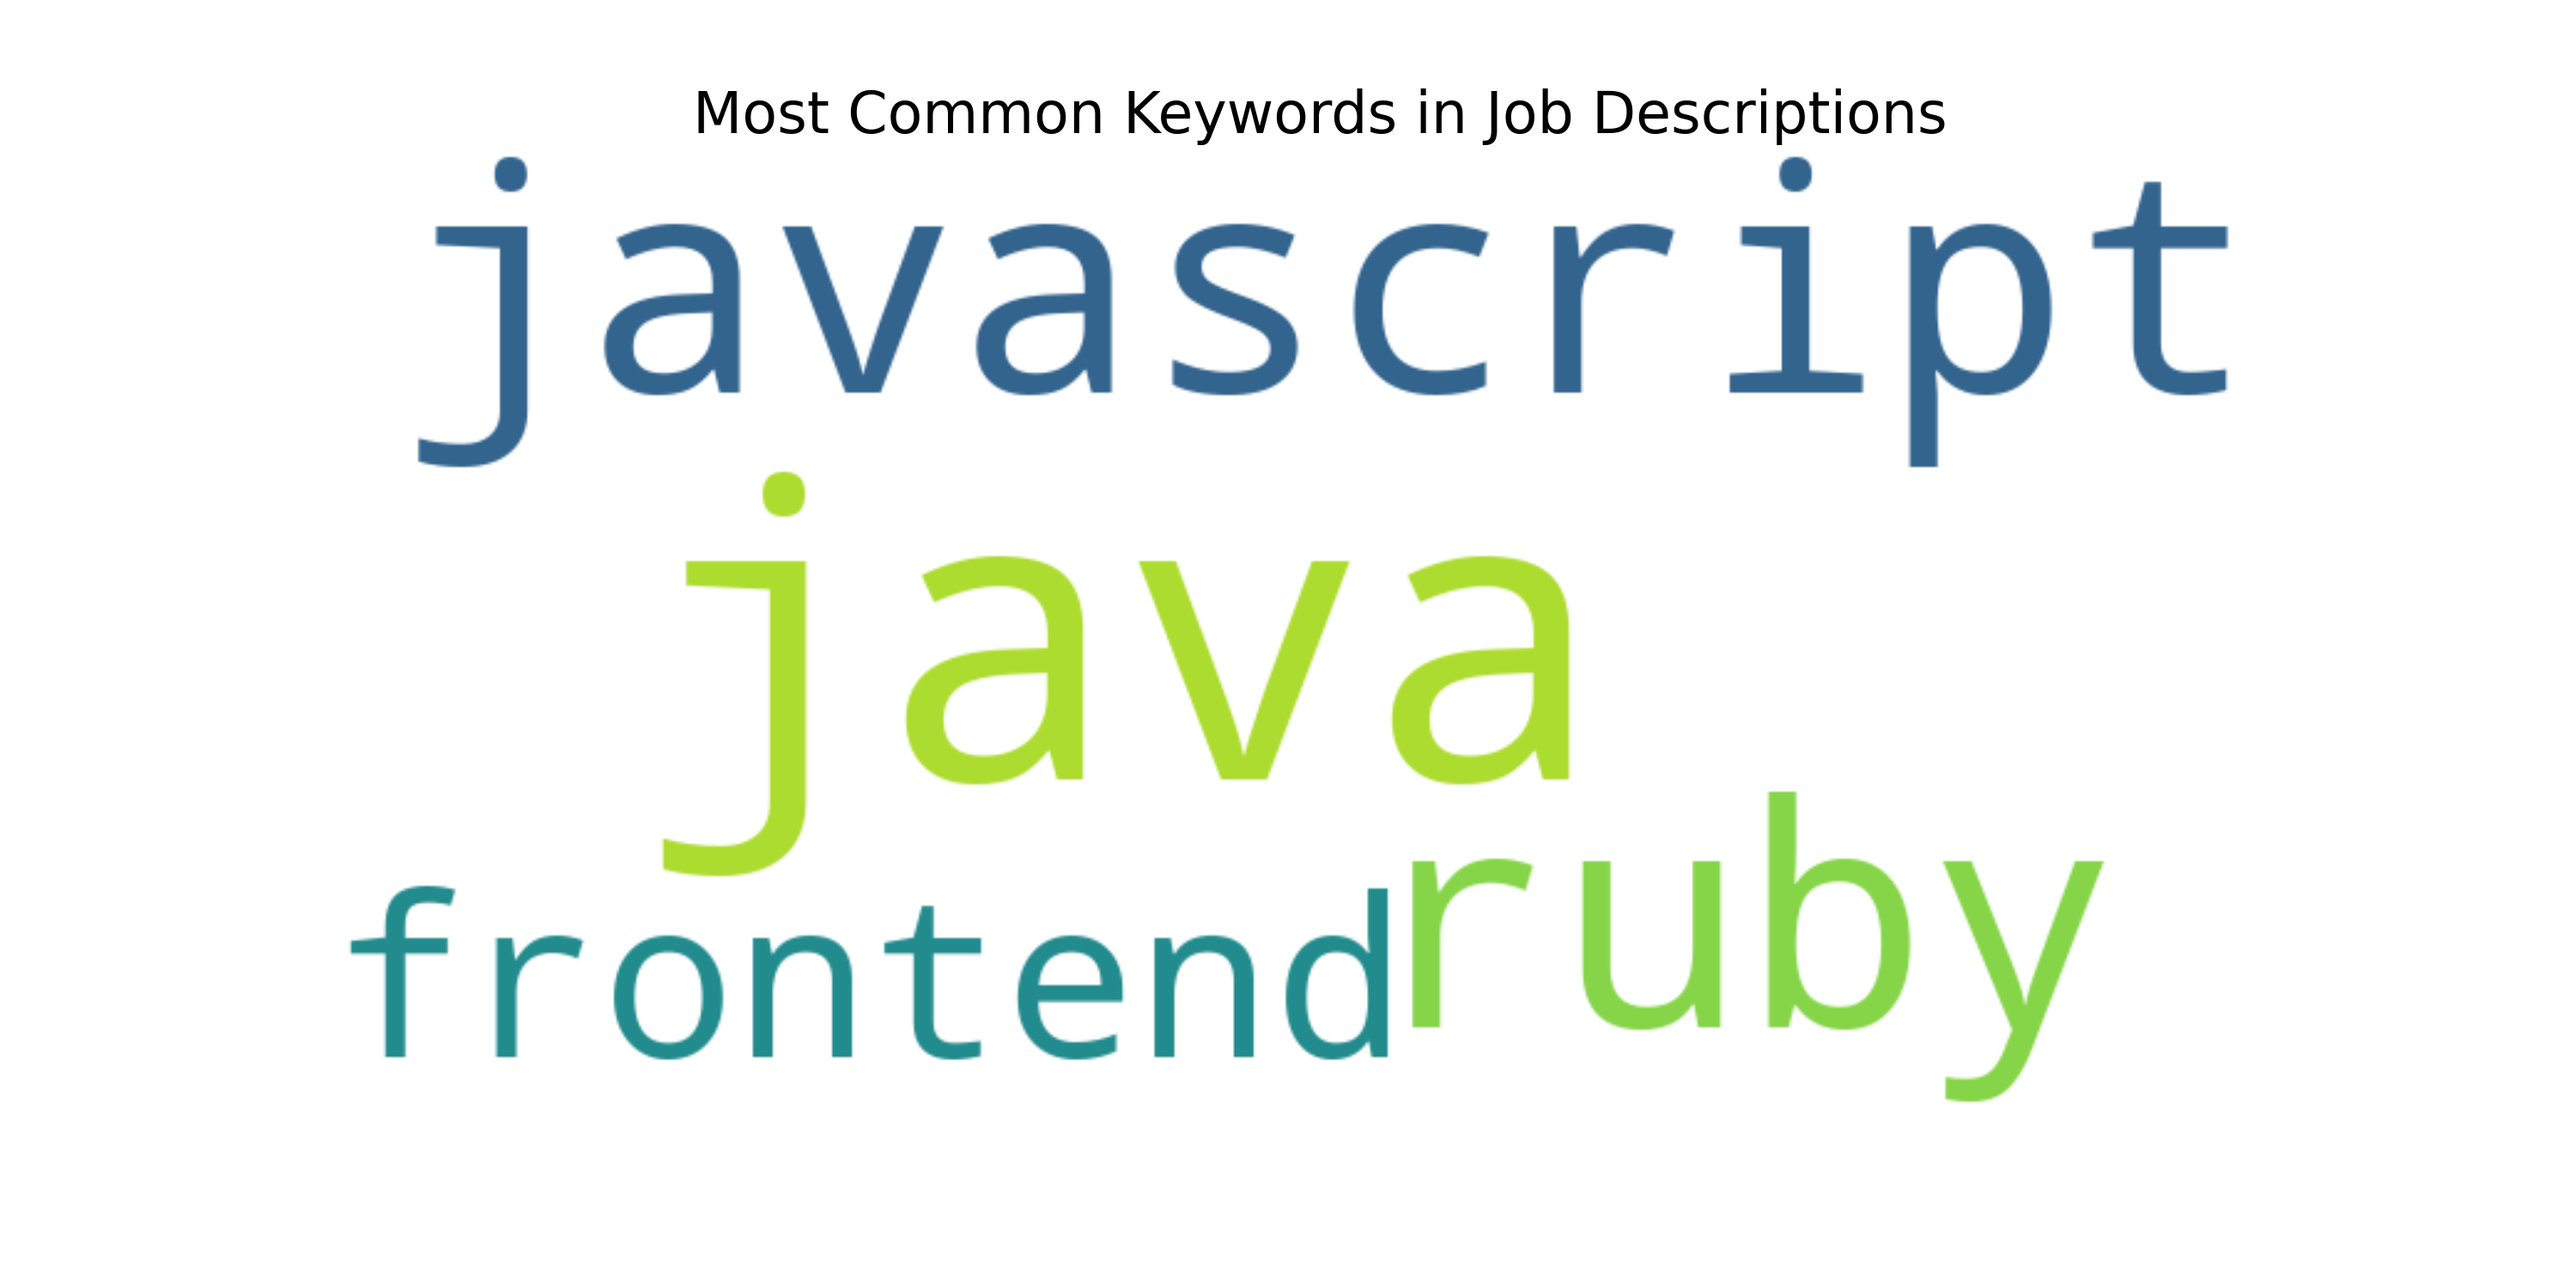
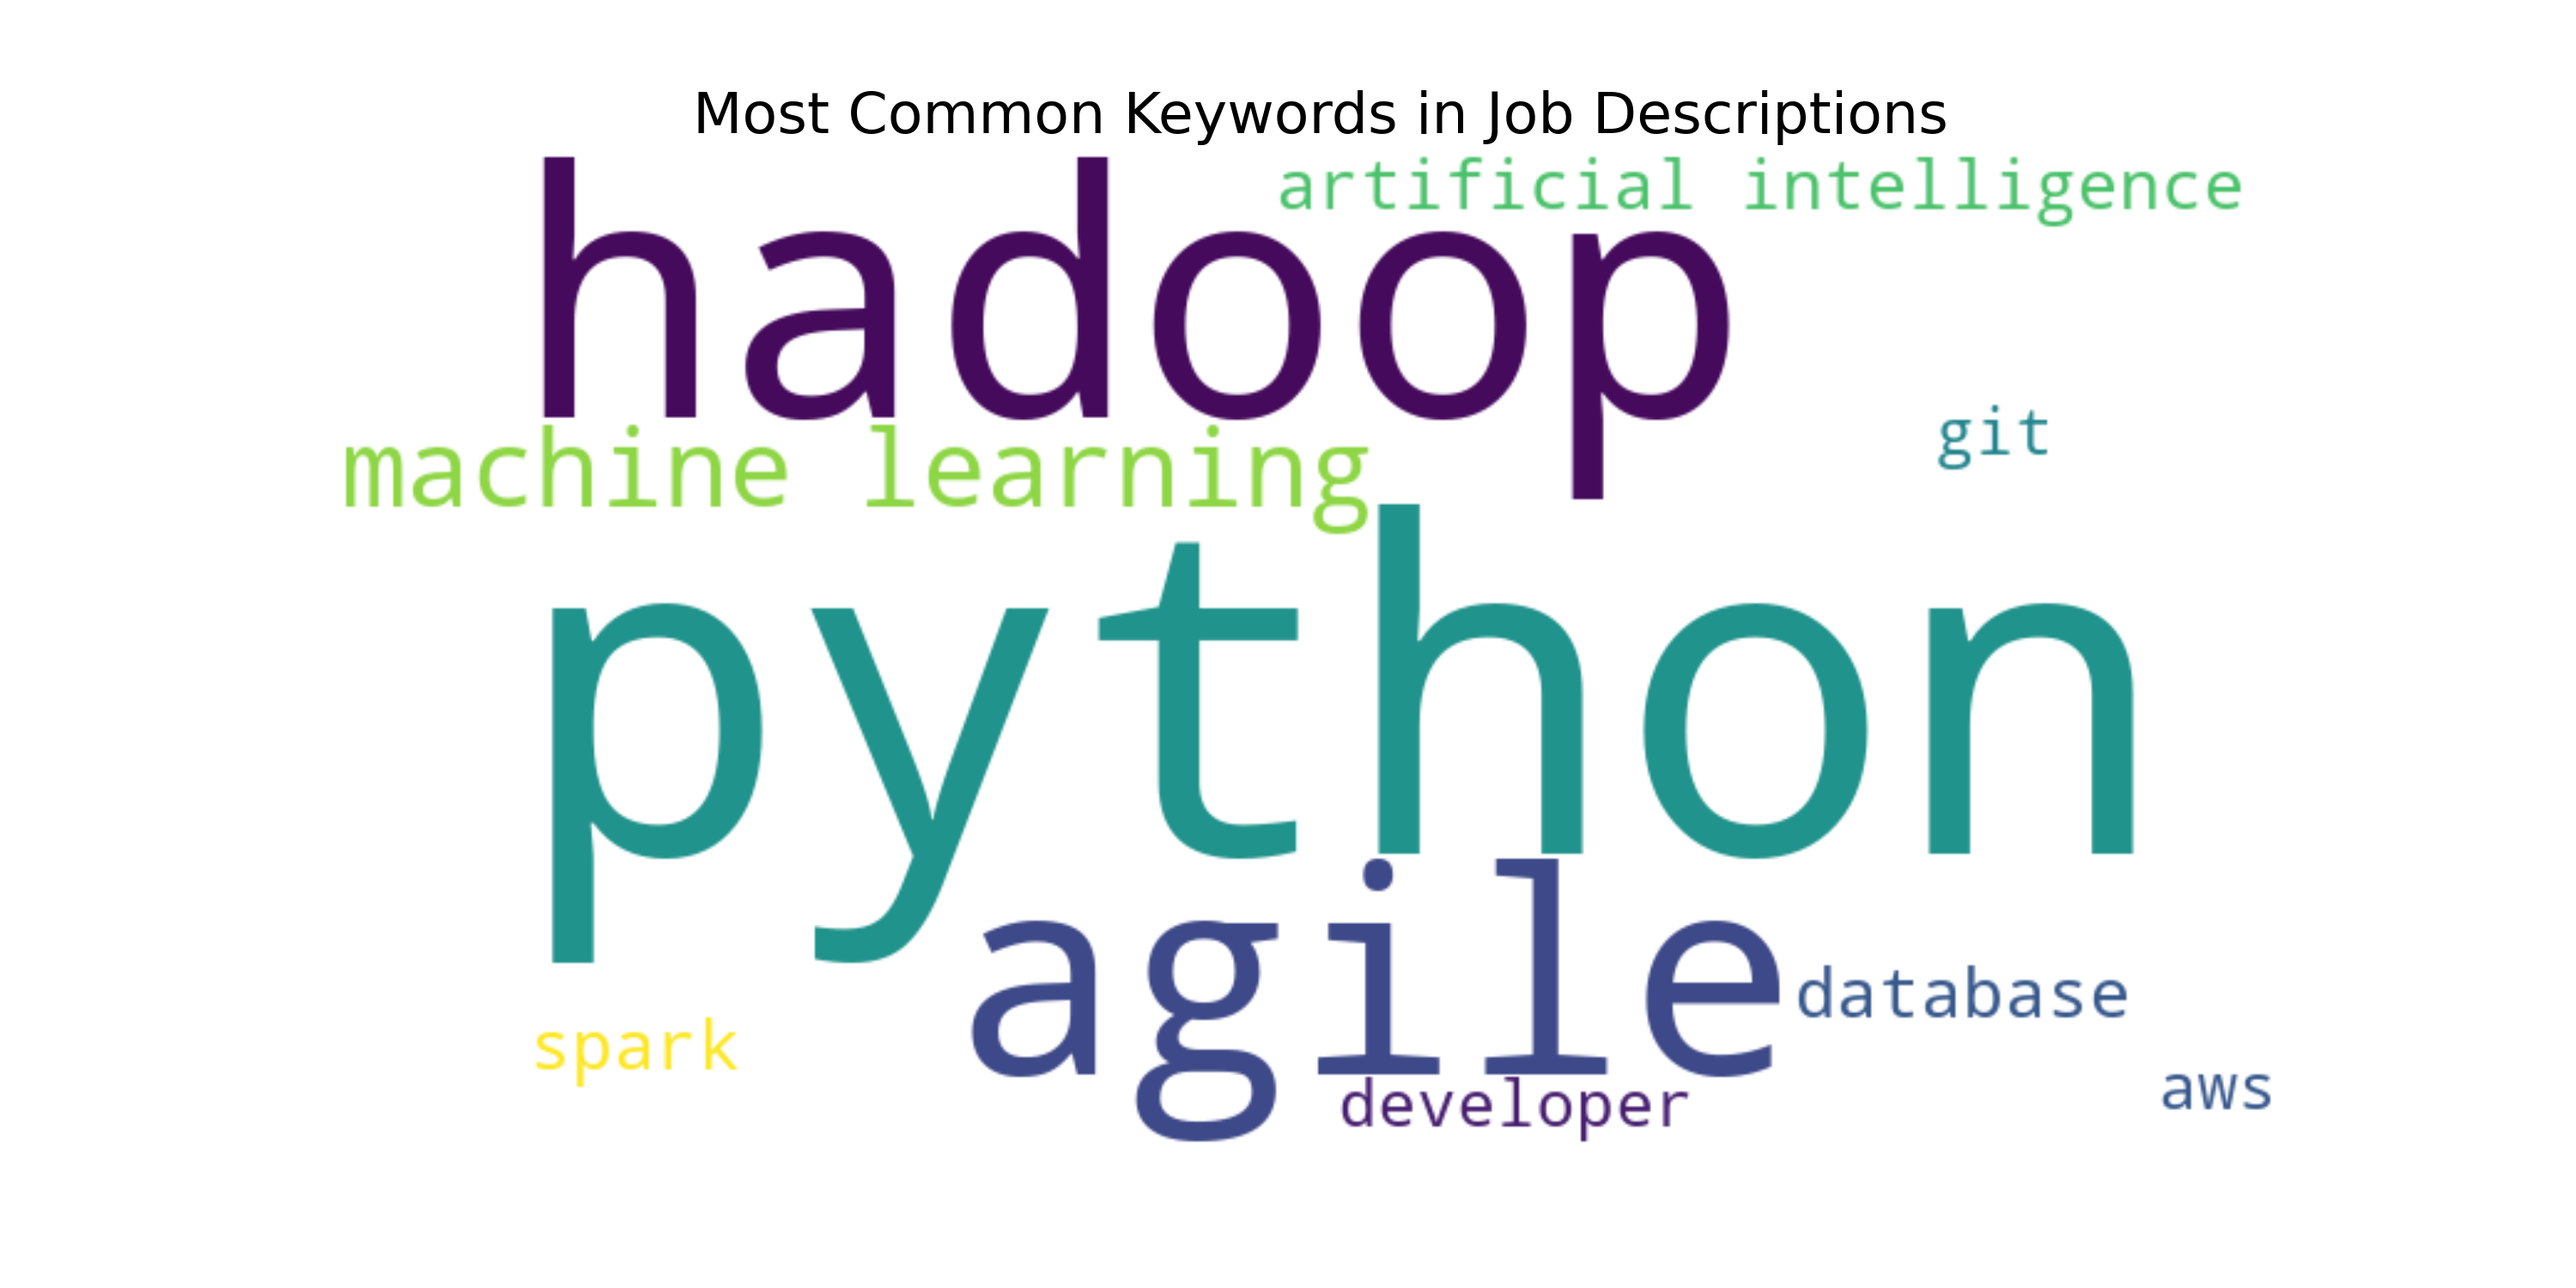
Invoke visualization upon successful upload

Changed region(s): [[0.124, 0.0613, 0.868, 0.8893], [0.837, 0.828, 0.899, 0.8587], [0.62, 0.0613, 0.651, 0.092]]

diff --git a/visualize/visualize.py b/visualize/visualize.py
@@ -6,18 +6,95 @@ import os
 
 # Define the set of acceptable keywords
 keywords = {
-"python", "developer", "api", "react", "javascript", "database", "backend",
-"frontend", "fullstack", "testing", "node", "express", "html", "css", "typescript",
-"cloud", "aws", "azure", "gcp", "docker", "kubernetes", "linux", "git", "version control",
-"microservices", "devops", "sql", "nosql", "graphql", "web", "ui", "ux", "agile",
-"scrum", "ci/cd", "automation", "machine learning", "artificial intelligence",
-"data science", "data analysis", "cybersecurity", "api development", "software engineering",
-"architecture", "scalability", "performance", "optimization", "architecture", "system design",
-"java", "c#", "ruby", "php", "golang", "swift", "objective-c", "android", "ios", "mobile",
-"flutter", "flutter", "react-native", "flutter", "testing frameworks", "unit testing", "integration testing",
-"tdd", "bdd", "docker", "kubernetes", "virtualization", "cloud-native", "CI", "CD", "rest",
-"web services", "big data", "etl", "spark", "hadoop", "data pipelines", "data wrangling", "api testing",
-"security", "encryption", "oauth", "jwt", "authentication", "authorization"
+    "python",
+    "developer",
+    "api",
+    "react",
+    "javascript",
+    "database",
+    "backend",
+    "frontend",
+    "fullstack",
+    "testing",
+    "node",
+    "express",
+    "html",
+    "css",
+    "typescript",
+    "cloud",
+    "aws",
+    "azure",
+    "gcp",
+    "docker",
+    "kubernetes",
+    "linux",
+    "git",
+    "version control",
+    "microservices",
+    "devops",
+    "sql",
+    "nosql",
+    "graphql",
+    "web",
+    "ui",
+    "ux",
+    "agile",
+    "scrum",
+    "ci/cd",
+    "automation",
+    "machine learning",
+    "artificial intelligence",
+    "data science",
+    "data analysis",
+    "cybersecurity",
+    "api development",
+    "software engineering",
+    "architecture",
+    "scalability",
+    "performance",
+    "optimization",
+    "architecture",
+    "system design",
+    "java",
+    "c#",
+    "ruby",
+    "php",
+    "golang",
+    "swift",
+    "objective-c",
+    "android",
+    "ios",
+    "mobile",
+    "flutter",
+    "flutter",
+    "react-native",
+    "flutter",
+    "testing frameworks",
+    "unit testing",
+    "integration testing",
+    "tdd",
+    "bdd",
+    "docker",
+    "kubernetes",
+    "virtualization",
+    "cloud-native",
+    "CI",
+    "CD",
+    "rest",
+    "web services",
+    "big data",
+    "etl",
+    "spark",
+    "hadoop",
+    "data pipelines",
+    "data wrangling",
+    "api testing",
+    "security",
+    "encryption",
+    "oauth",
+    "jwt",
+    "authentication",
+    "authorization",
 }
 
 dynamodb = boto3.resource(
@@ -27,6 +104,7 @@ dynamodb = boto3.resource(
     aws_session_token=os.getenv("AWS_SESSION_TOKEN"),
     region_name="ca-central-1",
 )
+
 
 def extract_matching_keywords(file_path, keywords):
     """
@@ -38,12 +116,12 @@ def extract_matching_keywords(file_path, keywords):
     """
     try:
         # Open and read the file
-        with open(file_path, 'r') as file:
+        with open(file_path, "r") as file:
             text_content = file.read()
 
         # Tokenize the text into words (case insensitive, remove punctuation)
         words = text_content.lower().split()
-        cleaned_words = [word.strip('.,!?()[]{}:;\'"') for word in words]
+        cleaned_words = [word.strip(".,!?()[]{}:;'\"") for word in words]
 
         # Find matches
         matching_keywords = [word for word in cleaned_words if word in keywords]
@@ -60,7 +138,8 @@ def extract_matching_keywords(file_path, keywords):
         print(f"An error occurred: {e}")
         return {}
 
-def get_top_n_keywords(n):
+
+def get_top_n_keywords(n, word_frequencies):
     """
     Extract the top N most frequent keywords from the word_frequencies dictionary.
 
@@ -68,9 +147,12 @@ def get_top_n_keywords(n):
     :return: A dictionary containing the top N keywords and their counts.
     """
     # Sort the word_frequencies dictionary by value in descending order and select the top N items
-    sorted_keywords = dict(sorted(word_frequencies.items(), key=lambda item: item[1], reverse=True)[:n])
+    sorted_keywords = dict(
+        sorted(word_frequencies.items(), key=lambda item: item[1], reverse=True)[:n]
+    )
 
     return sorted_keywords
+
 
 def store_word_frequencies(table_name, id_key, word_frequencies):
     """
@@ -125,31 +207,105 @@ def generate_wordcloud(word_frequencies):
     plt.close()
     print("File saved successfully.")
 
-def reset_table():
+
+def reset_table(table_name, id_key):
     word_frequencies = {
-      "python": 0, "developer": 0, "api": 0, "react": 0, "javascript": 0, "database": 0, "backend": 0,
-      "frontend": 0, "fullstack": 0, "testing": 0, "node": 0, "express": 0, "html": 0, "css": 0, "typescript": 0,
-      "cloud": 0, "aws": 0, "azure": 0, "gcp": 0, "docker": 0, "kubernetes": 0, "linux": 0, "git": 0, "version control": 0,
-      "microservices": 0, "devops": 0, "sql": 0, "nosql": 0, "graphql": 0, "web": 0, "ui": 0, "ux": 0, "agile": 0,
-      "scrum": 0, "ci/cd": 0, "automation": 0, "machine learning": 0, "artificial intelligence": 0,
-      "data science": 0, "data analysis": 0, "cybersecurity": 0, "api development": 0, "software engineering": 0,
-      "architecture": 0, "scalability": 0, "performance": 0, "optimization": 0, "system design": 0,
-      "java": 0, "c#": 0, "ruby": 0, "php": 0, "golang": 0, "swift": 0, "objective-c": 0, "android": 0, "ios": 0, "mobile": 0,
-      "flutter": 0, "react-native": 0, "testing frameworks": 0, "unit testing": 0, "integration testing": 0,
-      "tdd": 0, "bdd": 0, "virtualization": 0, "cloud-native": 0, "CI": 0, "CD": 0, "rest": 0,
-      "web services": 0, "big data": 0, "etl": 0, "spark": 0, "hadoop": 0, "data pipelines": 0, "data wrangling": 0, "api testing": 0,
-      "security": 0, "encryption": 0, "oauth": 0, "jwt": 0, "authentication": 0, "authorization": 0
+        "python": 0,
+        "developer": 0,
+        "api": 0,
+        "react": 0,
+        "javascript": 0,
+        "database": 0,
+        "backend": 0,
+        "frontend": 0,
+        "fullstack": 0,
+        "testing": 0,
+        "node": 0,
+        "express": 0,
+        "html": 0,
+        "css": 0,
+        "typescript": 0,
+        "cloud": 0,
+        "aws": 0,
+        "azure": 0,
+        "gcp": 0,
+        "docker": 0,
+        "kubernetes": 0,
+        "linux": 0,
+        "git": 0,
+        "version control": 0,
+        "microservices": 0,
+        "devops": 0,
+        "sql": 0,
+        "nosql": 0,
+        "graphql": 0,
+        "web": 0,
+        "ui": 0,
+        "ux": 0,
+        "agile": 0,
+        "scrum": 0,
+        "ci/cd": 0,
+        "automation": 0,
+        "machine learning": 0,
+        "artificial intelligence": 0,
+        "data science": 0,
+        "data analysis": 0,
+        "cybersecurity": 0,
+        "api development": 0,
+        "software engineering": 0,
+        "architecture": 0,
+        "scalability": 0,
+        "performance": 0,
+        "optimization": 0,
+        "system design": 0,
+        "java": 0,
+        "c#": 0,
+        "ruby": 0,
+        "php": 0,
+        "golang": 0,
+        "swift": 0,
+        "objective-c": 0,
+        "android": 0,
+        "ios": 0,
+        "mobile": 0,
+        "flutter": 0,
+        "react-native": 0,
+        "testing frameworks": 0,
+        "unit testing": 0,
+        "integration testing": 0,
+        "tdd": 0,
+        "bdd": 0,
+        "virtualization": 0,
+        "cloud-native": 0,
+        "CI": 0,
+        "CD": 0,
+        "rest": 0,
+        "web services": 0,
+        "big data": 0,
+        "etl": 0,
+        "spark": 0,
+        "hadoop": 0,
+        "data pipelines": 0,
+        "data wrangling": 0,
+        "api testing": 0,
+        "security": 0,
+        "encryption": 0,
+        "oauth": 0,
+        "jwt": 0,
+        "authentication": 0,
+        "authorization": 0,
     }
 
     store_word_frequencies(table_name, id_key, word_frequencies)
 
 
-if __name__ == "__main__":
+# if __name__ == "__main__":
+def run_visualize():
     table_name = "TopWordFrequencies"
     id_key = "job_description_words"
 
     # Resets the table to have 0 counts for all keywords
-    # reset_table()
+    # reset_table(table_name, id_key)
 
     # Define the path to your .txt file
     file_path = "S3/job_desc.txt"
@@ -176,7 +332,7 @@ if __name__ == "__main__":
     store_word_frequencies(table_name, id_key, word_frequencies)
 
     # Extract and print the top 10 most frequent keywords
-    top_10_keywords = get_top_n_keywords(10)
+    top_10_keywords = get_top_n_keywords(10, word_frequencies)
     print("Top 10 most frequent keywords:")
     print(top_10_keywords)
 

diff --git a/S3/upload.py b/S3/upload.py
@@ -1,10 +1,12 @@
 import boto3
 import logging
 import os
+import sys
 import time
 import uuid
 from botocore.exceptions import ClientError
 from dotenv import load_dotenv
+
 
 load_dotenv()
 
@@ -97,3 +99,8 @@ if __name__ == "__main__":
         print(f"Enhanced resume saved to {resume_id}_enhanced_resume.txt")
     else:
         print("Enhanced resume not found in the database.")
+
+    sys.path.append(os.path.join(os.path.dirname(__file__), "..", "visualize"))
+    from visualize import run_visualize
+
+    run_visualize()
